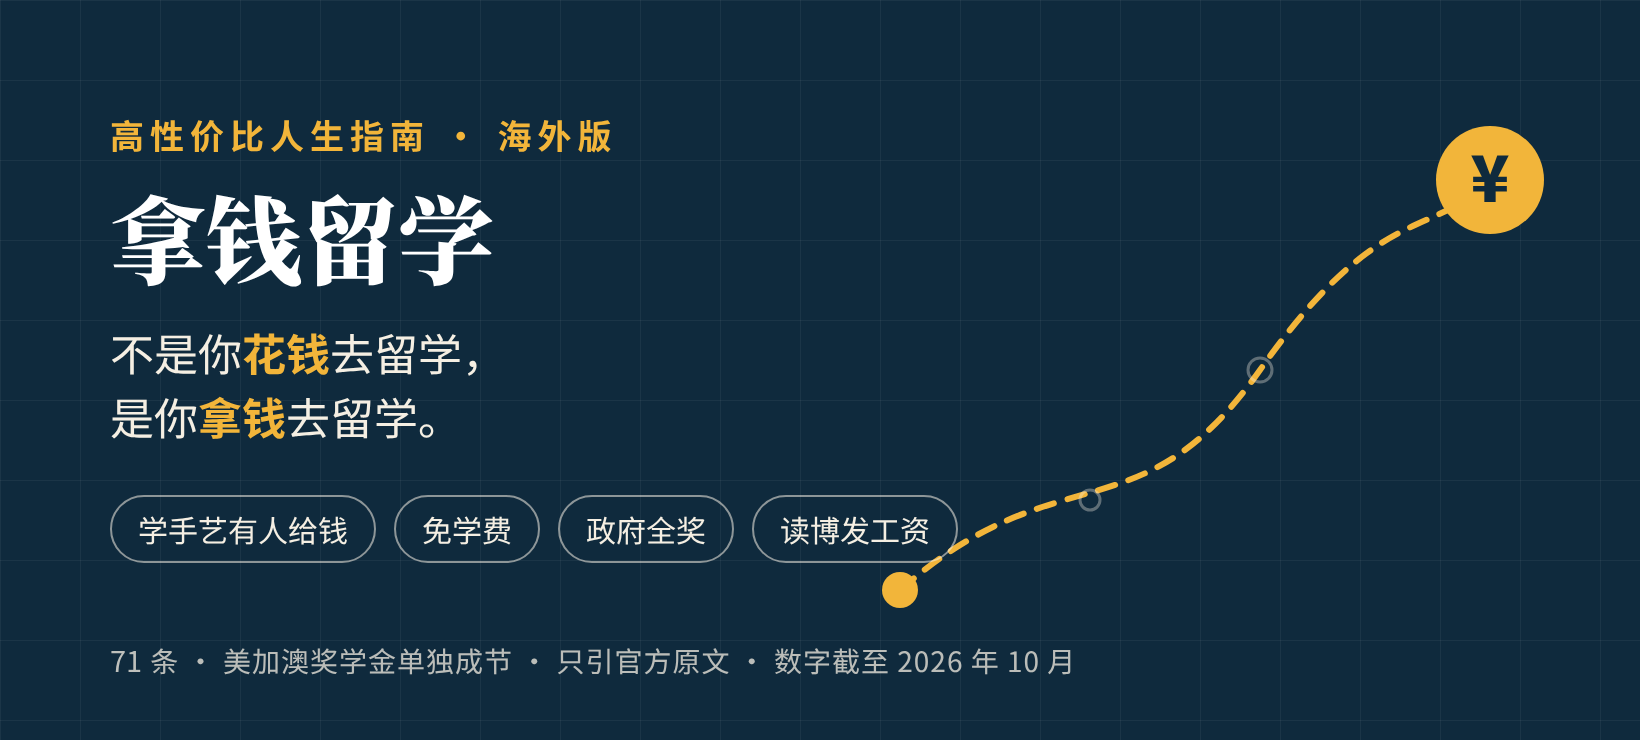
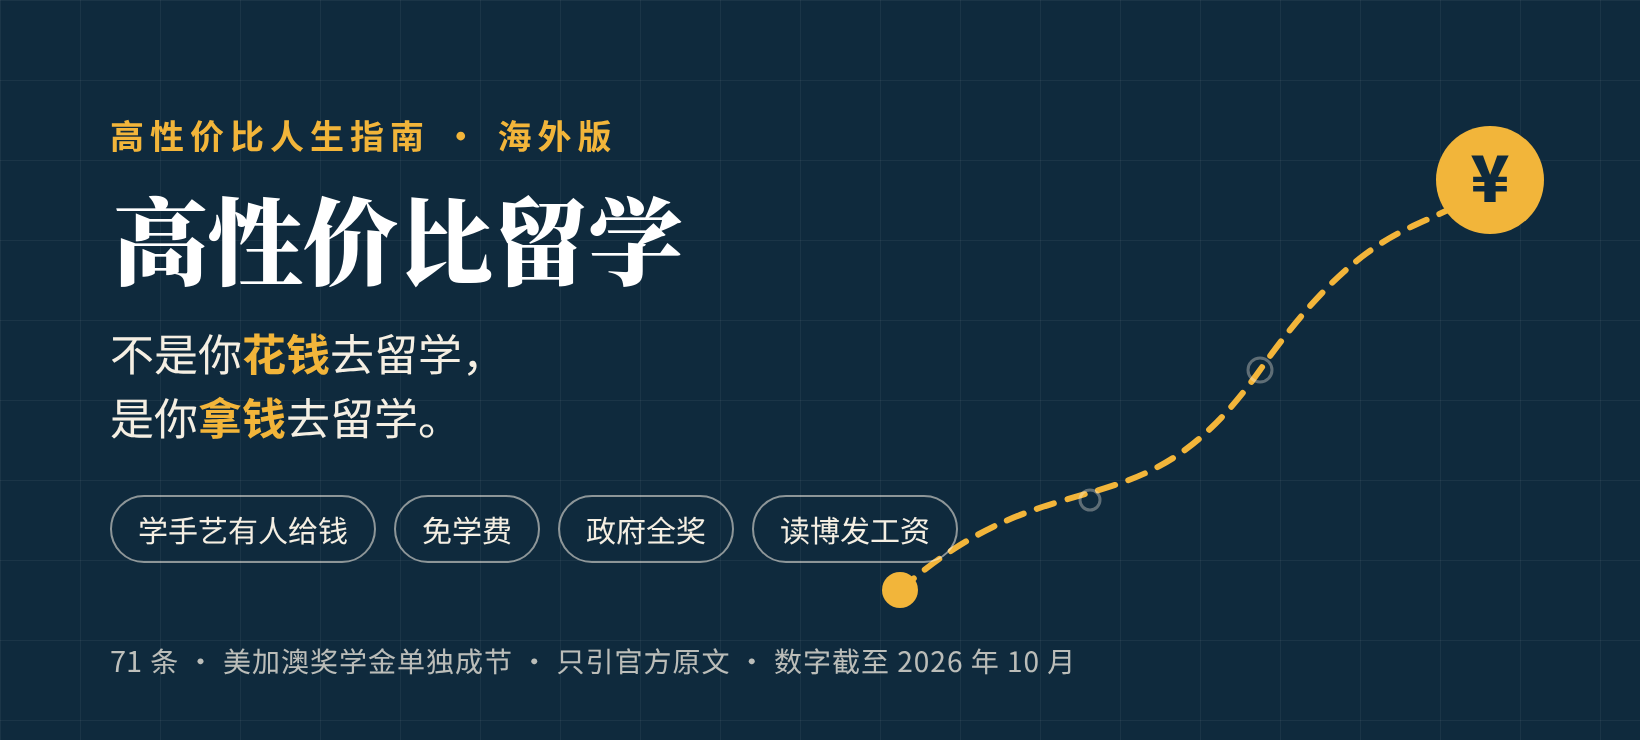
标题改为高性价比留学：首页、检索页和横幅图

Changed region(s): [[0.0622, 0.2486, 0.4354, 0.4041]]

diff --git a/index.html b/index.html
@@ -3,23 +3,23 @@
 <head>
 <meta charset="utf-8">
 <meta name="viewport" content="width=device-width, initial-scale=1">
-<title>拿钱留学 · 高性价比人生指南海外版 · 留学奖学金、免学费、读博发工资</title>
-<meta name="description" content="高性价比人生指南·海外版：拿钱留学。不是你花钱去留学，是你拿钱去留学。71 条出国留学省钱路线：德国日本学手艺有人发钱、免学费和低学费国家、政府全额奖学金、带薪读博，以及美国、加拿大、澳大利亚的留学奖学金。每条写明成本、收益、证据等级，只引各国政府和学校官网。">
-<meta name="keywords" content="高性价比人生指南,高性价比人生指南海外版,HowToLiveBetter,拿钱留学,留学,出国留学,留学奖学金,全额奖学金,免学费,政府奖学金,国家公派,CSC,读博,带薪博士,德国Ausbildung,日本介护,美国奖学金,加拿大奖学金,澳大利亚奖学金,CSS Profile">
+<title>高性价比留学 · 高性价比人生指南海外版 · 留学奖学金、免学费、读博发工资</title>
+<meta name="description" content="高性价比人生指南·海外版：高性价比留学。不是你花钱去留学，是你拿钱去留学。71 条出国留学省钱路线：德国日本学手艺有人发钱、免学费和低学费国家、政府全额奖学金、带薪读博，以及美国、加拿大、澳大利亚的留学奖学金。每条写明成本、收益、证据等级，只引各国政府和学校官网。">
+<meta name="keywords" content="高性价比人生指南,高性价比人生指南海外版,HowToLiveBetter,高性价比留学,留学,出国留学,留学奖学金,全额奖学金,免学费,政府奖学金,国家公派,CSC,读博,带薪博士,德国Ausbildung,日本介护,美国奖学金,加拿大奖学金,澳大利亚奖学金,CSS Profile">
 <meta name="robots" content="index,follow,max-image-preview:large,max-snippet:-1">
 <link rel="canonical" href="https://beckyglobal.github.io/PaidToStudyAbroad/">
 <meta property="og:type" content="website">
-<meta property="og:site_name" content="高性价比人生指南·海外版：拿钱留学">
+<meta property="og:site_name" content="高性价比人生指南·海外版：高性价比留学">
 <meta property="og:locale" content="zh_CN">
 <meta property="og:url" content="https://beckyglobal.github.io/PaidToStudyAbroad/">
-<meta property="og:title" content="拿钱留学 · 高性价比人生指南海外版">
-<meta property="og:description" content="高性价比人生指南·海外版：拿钱留学。不是你花钱去留学，是你拿钱去留学。71 条出国留学省钱路线：德国日本学手艺有人发钱、免学费和低学费国家、政府全额奖学金、带薪读博，以及美国、加拿大、澳大利亚的留学奖学金。每条写明成本、收益、证据等级，只引各国政府和学校官网。">
+<meta property="og:title" content="高性价比留学 · 高性价比人生指南海外版">
+<meta property="og:description" content="高性价比人生指南·海外版：高性价比留学。不是你花钱去留学，是你拿钱去留学。71 条出国留学省钱路线：德国日本学手艺有人发钱、免学费和低学费国家、政府全额奖学金、带薪读博，以及美国、加拿大、澳大利亚的留学奖学金。每条写明成本、收益、证据等级，只引各国政府和学校官网。">
 <meta property="og:image" content="https://beckyglobal.github.io/PaidToStudyAbroad/og.png">
 <meta property="og:image:width" content="1640">
 <meta property="og:image:height" content="740">
 <meta name="twitter:card" content="summary_large_image">
-<meta name="twitter:title" content="拿钱留学 · 高性价比人生指南海外版">
-<meta name="twitter:description" content="高性价比人生指南·海外版：拿钱留学。不是你花钱去留学，是你拿钱去留学。71 条出国留学省钱路线：德国日本学手艺有人发钱、免学费和低学费国家、政府全额奖学金、带薪读博，以及美国、加拿大、澳大利亚的留学奖学金。每条写明成本、收益、证据等级，只引各国政府和学校官网。">
+<meta name="twitter:title" content="高性价比留学 · 高性价比人生指南海外版">
+<meta name="twitter:description" content="高性价比人生指南·海外版：高性价比留学。不是你花钱去留学，是你拿钱去留学。71 条出国留学省钱路线：德国日本学手艺有人发钱、免学费和低学费国家、政府全额奖学金、带薪读博，以及美国、加拿大、澳大利亚的留学奖学金。每条写明成本、收益、证据等级，只引各国政府和学校官网。">
 <meta name="twitter:image" content="https://beckyglobal.github.io/PaidToStudyAbroad/og.png">
 <style>
   :root{
@@ -89,8 +89,8 @@
   .static h2{font-size:19px;margin:22px 0 6px}.static h2 a{text-decoration:none}.static p{color:var(--muted);margin:0 0 6px}.static ul{margin:0;padding-left:20px;font-size:15px}
 .noprint-msg{display:none}.np-toast{position:fixed;left:50%;bottom:24px;transform:translateX(-50%);background:#0f2a3d;color:#fff;padding:10px 16px;border-radius:10px;font-size:14px;display:none;z-index:99;max-width:90vw;text-align:center}@media print{body *{display:none !important}body .noprint-msg{display:block !important;font-size:20px;padding:40px;color:#000}}</style>
 <!-- ld:start -->
-<script type="application/ld+json">{"@context":"https://schema.org","@type":"WebSite","name":"高性价比人生指南 · 海外版：拿钱留学","alternateName":["拿钱留学","高性价比人生指南海外版"],"url":"https://beckyglobal.github.io/PaidToStudyAbroad/","inLanguage":"zh-CN"}</script>
-<script type="application/ld+json">{"@context":"https://schema.org","@type":"CollectionPage","name":"高性价比人生指南 · 海外版：拿钱留学","url":"https://beckyglobal.github.io/PaidToStudyAbroad/","inLanguage":"zh-CN","dateModified":"2026-10-20","author":{"@type":"Person","name":"Becky在地球村"},"license":"https://creativecommons.org/licenses/by-nc-nd/4.0/deed.zh-hans","mainEntity":{"@type":"ItemList","numberOfItems":7,"itemListElement":[{"@type":"ListItem","position":1,"url":"https://beckyglobal.github.io/PaidToStudyAbroad/section/1.html","name":"1. 学手艺，有人给钱：职业培训和护理"},{"@type":"ListItem","position":2,"url":"https://beckyglobal.github.io/PaidToStudyAbroad/section/2.html","name":"2. 本科和硕士：不要学费，或者学费很低的地方"},{"@type":"ListItem","position":3,"url":"https://beckyglobal.github.io/PaidToStudyAbroad/section/3.html","name":"3. 政府给全奖：本科、硕士、博士"},{"@type":"ListItem","position":4,"url":"https://beckyglobal.github.io/PaidToStudyAbroad/section/4.html","name":"4. 读博就是上班：有的国家博士生是员工，按月发工资"},{"@type":"ListItem","position":5,"url":"https://beckyglobal.github.io/PaidToStudyAbroad/section/5.html","name":"5. 美国：本科和研究生怎么拿奖学金"},{"@type":"ListItem","position":6,"url":"https://beckyglobal.github.io/PaidToStudyAbroad/section/6.html","name":"6. 加拿大：本科和研究生怎么拿奖学金"},{"@type":"ListItem","position":7,"url":"https://beckyglobal.github.io/PaidToStudyAbroad/section/7.html","name":"7. 澳大利亚：本科和研究生怎么拿奖学金"}]}}</script>
+<script type="application/ld+json">{"@context":"https://schema.org","@type":"WebSite","name":"高性价比人生指南 · 海外版：高性价比留学","alternateName":["高性价比留学","高性价比人生指南海外版"],"url":"https://beckyglobal.github.io/PaidToStudyAbroad/","inLanguage":"zh-CN"}</script>
+<script type="application/ld+json">{"@context":"https://schema.org","@type":"CollectionPage","name":"高性价比人生指南 · 海外版：高性价比留学","url":"https://beckyglobal.github.io/PaidToStudyAbroad/","inLanguage":"zh-CN","dateModified":"2026-10-20","author":{"@type":"Person","name":"Becky在地球村"},"license":"https://creativecommons.org/licenses/by-nc-nd/4.0/deed.zh-hans","mainEntity":{"@type":"ItemList","numberOfItems":7,"itemListElement":[{"@type":"ListItem","position":1,"url":"https://beckyglobal.github.io/PaidToStudyAbroad/section/1.html","name":"1. 学手艺，有人给钱：职业培训和护理"},{"@type":"ListItem","position":2,"url":"https://beckyglobal.github.io/PaidToStudyAbroad/section/2.html","name":"2. 本科和硕士：不要学费，或者学费很低的地方"},{"@type":"ListItem","position":3,"url":"https://beckyglobal.github.io/PaidToStudyAbroad/section/3.html","name":"3. 政府给全奖：本科、硕士、博士"},{"@type":"ListItem","position":4,"url":"https://beckyglobal.github.io/PaidToStudyAbroad/section/4.html","name":"4. 读博就是上班：有的国家博士生是员工，按月发工资"},{"@type":"ListItem","position":5,"url":"https://beckyglobal.github.io/PaidToStudyAbroad/section/5.html","name":"5. 美国：本科和研究生怎么拿奖学金"},{"@type":"ListItem","position":6,"url":"https://beckyglobal.github.io/PaidToStudyAbroad/section/6.html","name":"6. 加拿大：本科和研究生怎么拿奖学金"},{"@type":"ListItem","position":7,"url":"https://beckyglobal.github.io/PaidToStudyAbroad/section/7.html","name":"7. 澳大利亚：本科和研究生怎么拿奖学金"}]}}</script>
 <!-- ld:end -->
 </head>
 <body>
@@ -99,7 +99,7 @@
   <button class="theme" id="theme" type="button" aria-label="切换深色或浅色">深/浅</button>
   <div class="wrap">
     <div class="kicker">高性价比人生指南 · 海外版</div>
-    <h1>拿钱留学</h1>
+    <h1>高性价比留学</h1>
     <p class="tag">不是你<b>花钱</b>去留学，是你<b>拿钱</b>去留学。</p>
     <div class="meta"><span id="total">…</span> · 只引各国政府和官方机构原文 · 数字截至 2026 年 10 月 · <a href="https://github.com/BeckyGlobal/PaidToStudyAbroad">GitHub 仓库</a></div>
     <div class="follow">关注作者：微信视频号 <b>Becky在地球村</b></div>
@@ -126,7 +126,7 @@
     来源只引各国政府、政府机构和使领馆、法律原文、公立大学官网，以及政府委托或出资运营的项目官网。奖学金和签证政策每年都改，申请前请照每条的来源链接再查一遍。<br>
     想看更多出国路径和海外生活，关注微信视频号「Becky在地球村」。<br>
     本指南不是法律、移民或财务意见。正文按 CC BY-NC-ND 4.0 发布，不能商用，不能改编。<br>
-    <b>转载请注明出处：《拿钱留学》，微信视频号 Becky在地球村</b><br>
+    <b>转载请注明出处：《高性价比留学》，微信视频号 Becky在地球村</b><br>
     灵感来自《高性价比人生指南》（eternity4719），本站是读者做的非官方衍生作品。
   </footer>
 </main>

diff --git a/README.md b/README.md
@@ -1,8 +1,8 @@
 <div align="center">
 
-<img src="og.png" alt="高性价比人生指南 · 海外版：拿钱留学 —— 不是你花钱去留学，是你拿钱去留学" width="820">
+<img src="og.png" alt="高性价比人生指南 · 海外版：高性价比留学 —— 不是你花钱去留学，是你拿钱去留学" width="820">
 
-# 高性价比人生指南 · 海外版：拿钱留学
+# 高性价比人生指南 · 海外版：高性价比留学
 
 <sub>An unofficial overseas companion to <a href="https://github.com/eternity4719/HowToLiveBetter">HowToLiveBetter (高性价比人生指南)</a>: scholarships, tuition-free study, fully funded government awards and paid PhDs for readers from mainland China. Official sources only.</sub>
 
@@ -241,4 +241,4 @@
 
 正文按 [CC BY-NC-ND 4.0](LICENSE)（署名-非商业性使用-禁止演绎）发布：可以转发、分享，但要注明出处并附上本仓库链接；不能用于商业用途，不能改编后再发布。
 
-转载请注明出处：《拿钱留学》，微信视频号 Becky在地球村。
+转载请注明出处：《高性价比留学》，微信视频号 Becky在地球村。
